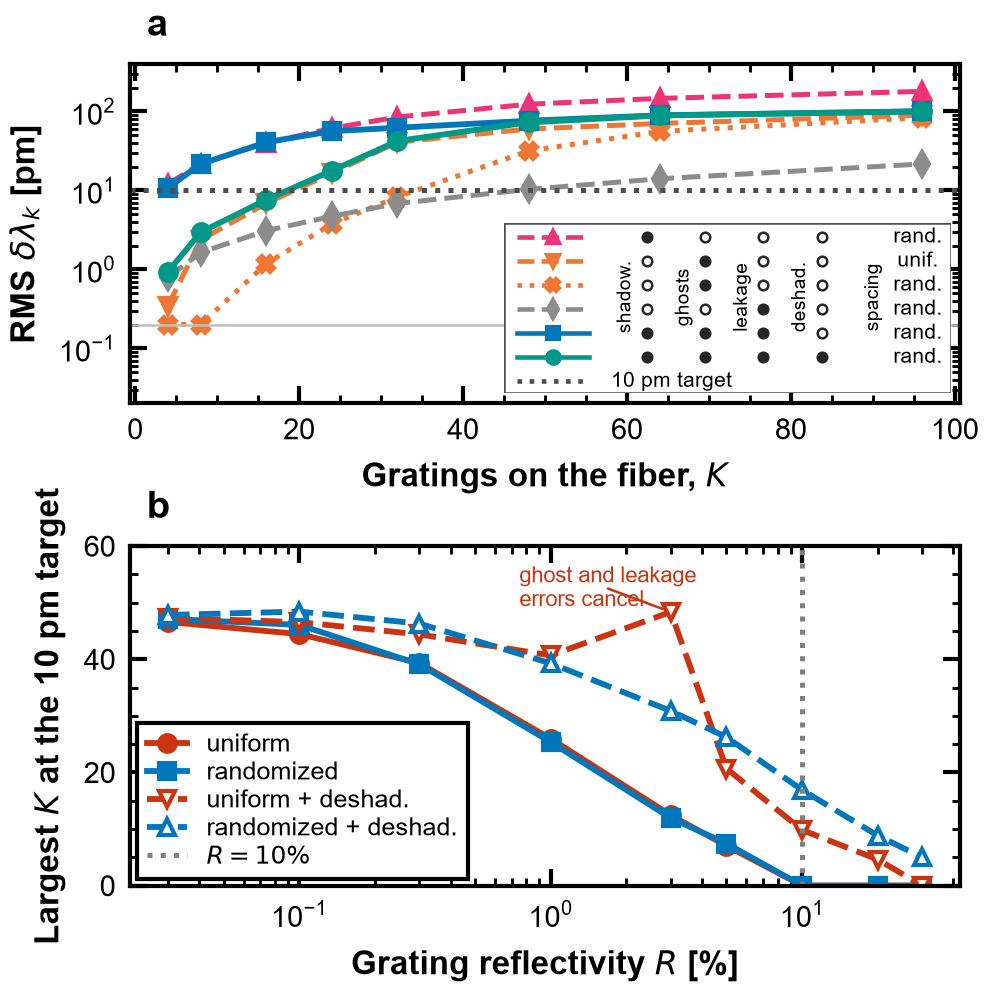
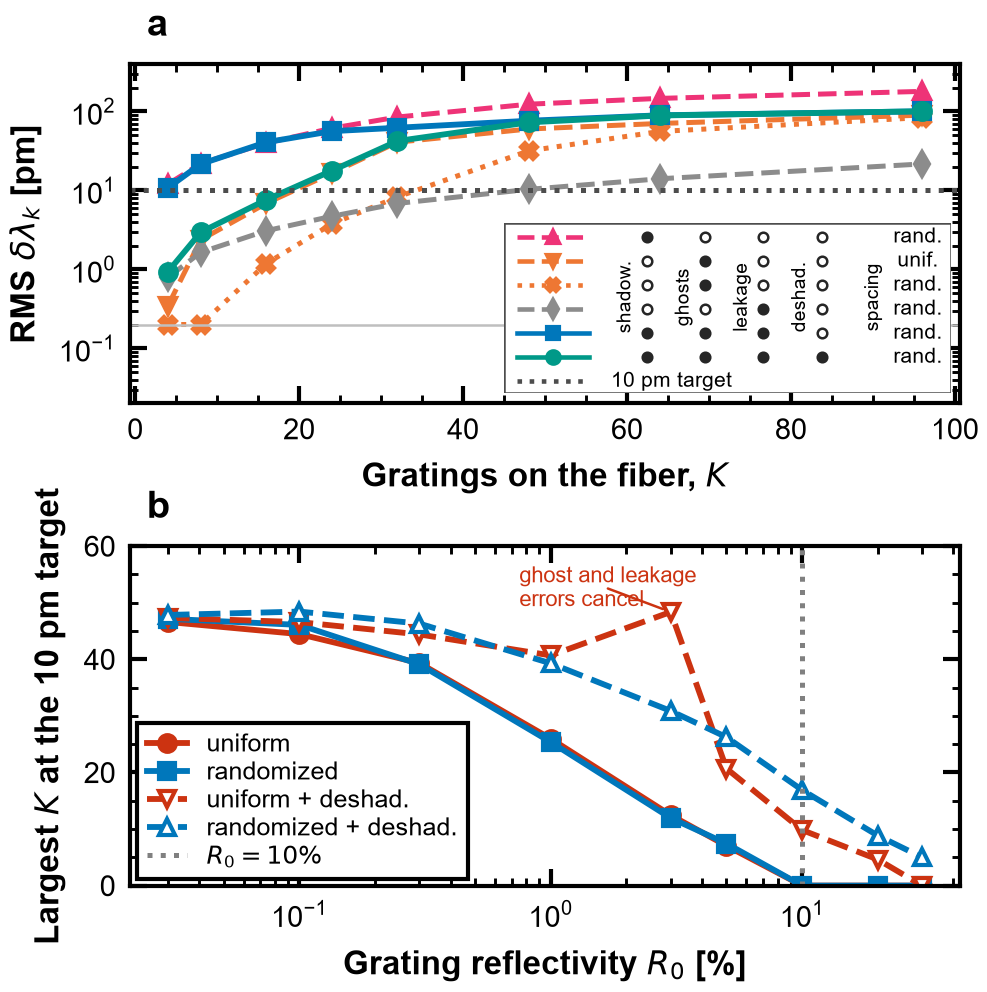
capacity figure: R_0 for the peak reflectivity in the legend and axis label

Changed region(s): [[0.3343, 0.9375, 0.7599, 1.0], [0.2128, 0.8438, 0.3343, 0.875]]

diff --git a/python_selfcal_cdm/s12_capacity.py b/python_selfcal_cdm/s12_capacity.py
@@ -302,9 +302,9 @@ ax[1].annotate('ghost and leakage\nerrors cancel', xy=(3.0, cap_uni_peel[4]), xy
                color=FS.VERM, ha='left', va='center',
                arrowprops=dict(arrowstyle='-', color=FS.VERM, lw=0.6, shrinkA=0, shrinkB=2))
 ax[1].axvline(0.10 * 100, color='0.5', ls=':', lw=1.2,
-              label='$R = 10\\%$')
+              label='$R_0 = 10\\%$')
 ax[1].set_ylim(0, 60)
-ax[1].set_xlabel('grating reflectivity $R$ [%]')
+ax[1].set_xlabel('grating reflectivity $R_0$ [%]')
 ax[1].set_ylabel('largest $K$ at the %.0f pm target' % TARGET_PM)
 FS.letter(ax[1], 'b')
 ax[1].grid(False, which='both')
